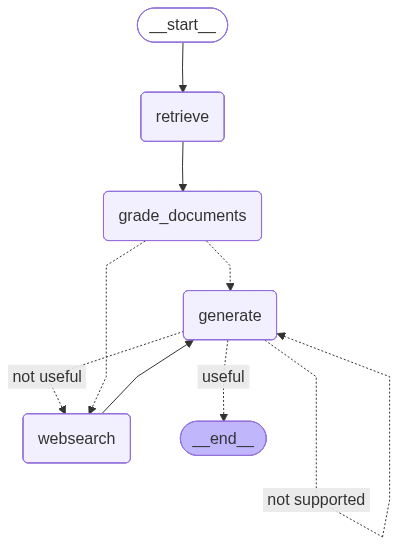
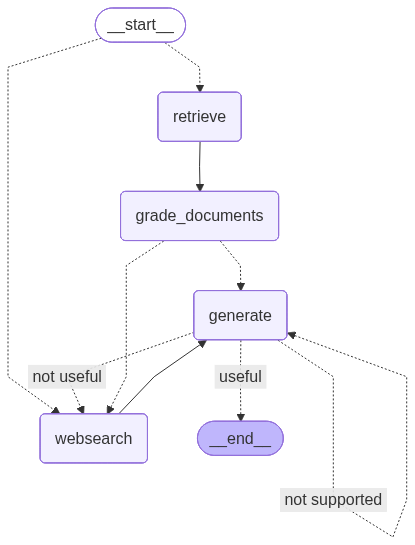
Final changes

diff --git a/graph/graph.py b/graph/graph.py
@@ -5,6 +5,7 @@ load_dotenv()
 from langgraph.graph import END, StateGraph
 from graph.chains.answer_grader import answer_grader
 from graph.chains.hallucination_grader import hallucination_grader
+from graph.chains.router import question_router, RouteQuery
 from graph.consts import *
 from graph.nodes import generate, grade_documents, retrieve, web_search
 from graph.state import GraphState
@@ -46,6 +47,17 @@ def grade_generation_grounded_in_documents_and_question(state: GraphState) -> st
         print("---DECISION: GENERATION IS NOT GROUNDED IN DOCUMENTS, RE-TRY---")
         return "not supported"
 
+def route_question(state: GraphState) -> str:
+    print("---ROUTE QUESTION---")
+    question = state["question"]
+    source: RouteQuery = question_router.invoke({"question": question})
+    if source.datasource == "websearch":
+        print("---ROUTE QUESTION TO WEB SEARCH---")
+        return WEBSEARCH
+    elif source.datasource == "vectorstore":
+        print("---ROUTE QUESTION TO RAG---")
+        return RETRIEVE
+
 workflow = StateGraph(GraphState)
 
 workflow.add_node(RETRIEVE, retrieve)
@@ -53,7 +65,14 @@ workflow.add_node(GRADE_DOCUMENTS, grade_documents)
 workflow.add_node(WEBSEARCH, web_search)
 workflow.add_node(GENERATE, generate)
 
-workflow.set_entry_point(RETRIEVE)
+workflow.set_conditional_entry_point(
+    route_question,
+    {
+        WEBSEARCH: WEBSEARCH,
+        RETRIEVE: RETRIEVE
+    }
+)
+# workflow.set_entry_point(RETRIEVE)
 workflow.add_edge(RETRIEVE, GRADE_DOCUMENTS)
 workflow.add_conditional_edges(
     GRADE_DOCUMENTS,

diff --git a/graph/chains/router.py b/graph/chains/router.py
@@ -1,0 +1,30 @@
+from typing import Literal
+from langchain_core.prompts import ChatPromptTemplate
+from pydantic import BaseModel, Field
+from langchain_openai import ChatOpenAI
+
+class RouteQuery(BaseModel):
+    """
+    Route a user query to the most relevant datasource.
+    """
+
+    datasource: Literal["vectorstore", "websearch"] = Field(
+        ...,
+        description="Given a user question choose to route it to websearch or vectorstore"
+    )
+
+llm = ChatOpenAI(temperature=0)
+structured_llm_router = llm.with_structured_output(RouteQuery)
+
+system = """You are an expert at routing a user question to a vectorstore or web search.
+The vectorstore contains documents related to agents, prompt engineering, and adversarial attacks.
+Use the vectorstore for questions on these topics. For all else, use web-search."""
+
+route_prompt = ChatPromptTemplate.from_messages(
+    [
+        ("system", system),
+        ("human", "{question}"),
+    ]
+)
+
+question_router = route_prompt | structured_llm_router

diff --git a/graph/chains/tests/test_chains.py b/graph/chains/tests/test_chains.py
@@ -3,6 +3,7 @@ from dotenv import load_dotenv
 load_dotenv()
 
 from pprint import pprint
+from graph.chains.router import question_router, RouteQuery
 from graph.chains.generation import generation_chain
 from graph.chains.retrieval_grader import GradeDocuments, retrieval_grader
 from ingestion import retriever
@@ -57,3 +58,15 @@ def test_hallucination_grader_answer_no() -> None:
     )
 
     assert not res.binary_score
+
+def test_router_to_vectorstore() -> None:
+    question = 'agent memory'
+    res: RouteQuery = question_router.invoke({"question": question})
+
+    assert res.datasource == "vectorstore"
+
+def test_router_to_websearch() -> None:
+    question = 'Football is a great sport'
+    res: RouteQuery = question_router.invoke({"question": question})
+
+    assert res.datasource == "websearch"

diff --git a/graph/nodes/websearch.py b/graph/nodes/websearch.py
@@ -11,7 +11,7 @@ web_search_tool = TavilySearch(max_results=3)
 def web_search(state: GraphState) -> Dict[str, Any]:
     print("---WEB SEARCH---")
     question = state["question"]
-    documents = state["documents"]
+    documents = state.get("documents") or []
 
     tavily_results = web_search_tool.invoke({"query": question})
     
@@ -19,10 +19,7 @@ def web_search(state: GraphState) -> Dict[str, Any]:
         [tavily_result["content"] for tavily_result in tavily_results["results"]]
     )
     web_results = Document(page_content=joined_results)
-    if documents is not None:
-        documents.append(web_results)
-    else:
-        documents = [web_results]
+    documents.append(web_results)
     return {"documents": documents, "question": question}
 
 if __name__ == "__main__":

diff --git a/main.py b/main.py
@@ -5,4 +5,4 @@ from graph.graph import app
 
 if __name__ == "__main__":
     print("---Advanced RAG Implementation---")
-    print(app.invoke(input={"question": "what is agent memory?"}))
+    print(app.invoke(input={"question": "who won the champions league in 2010?"}))
